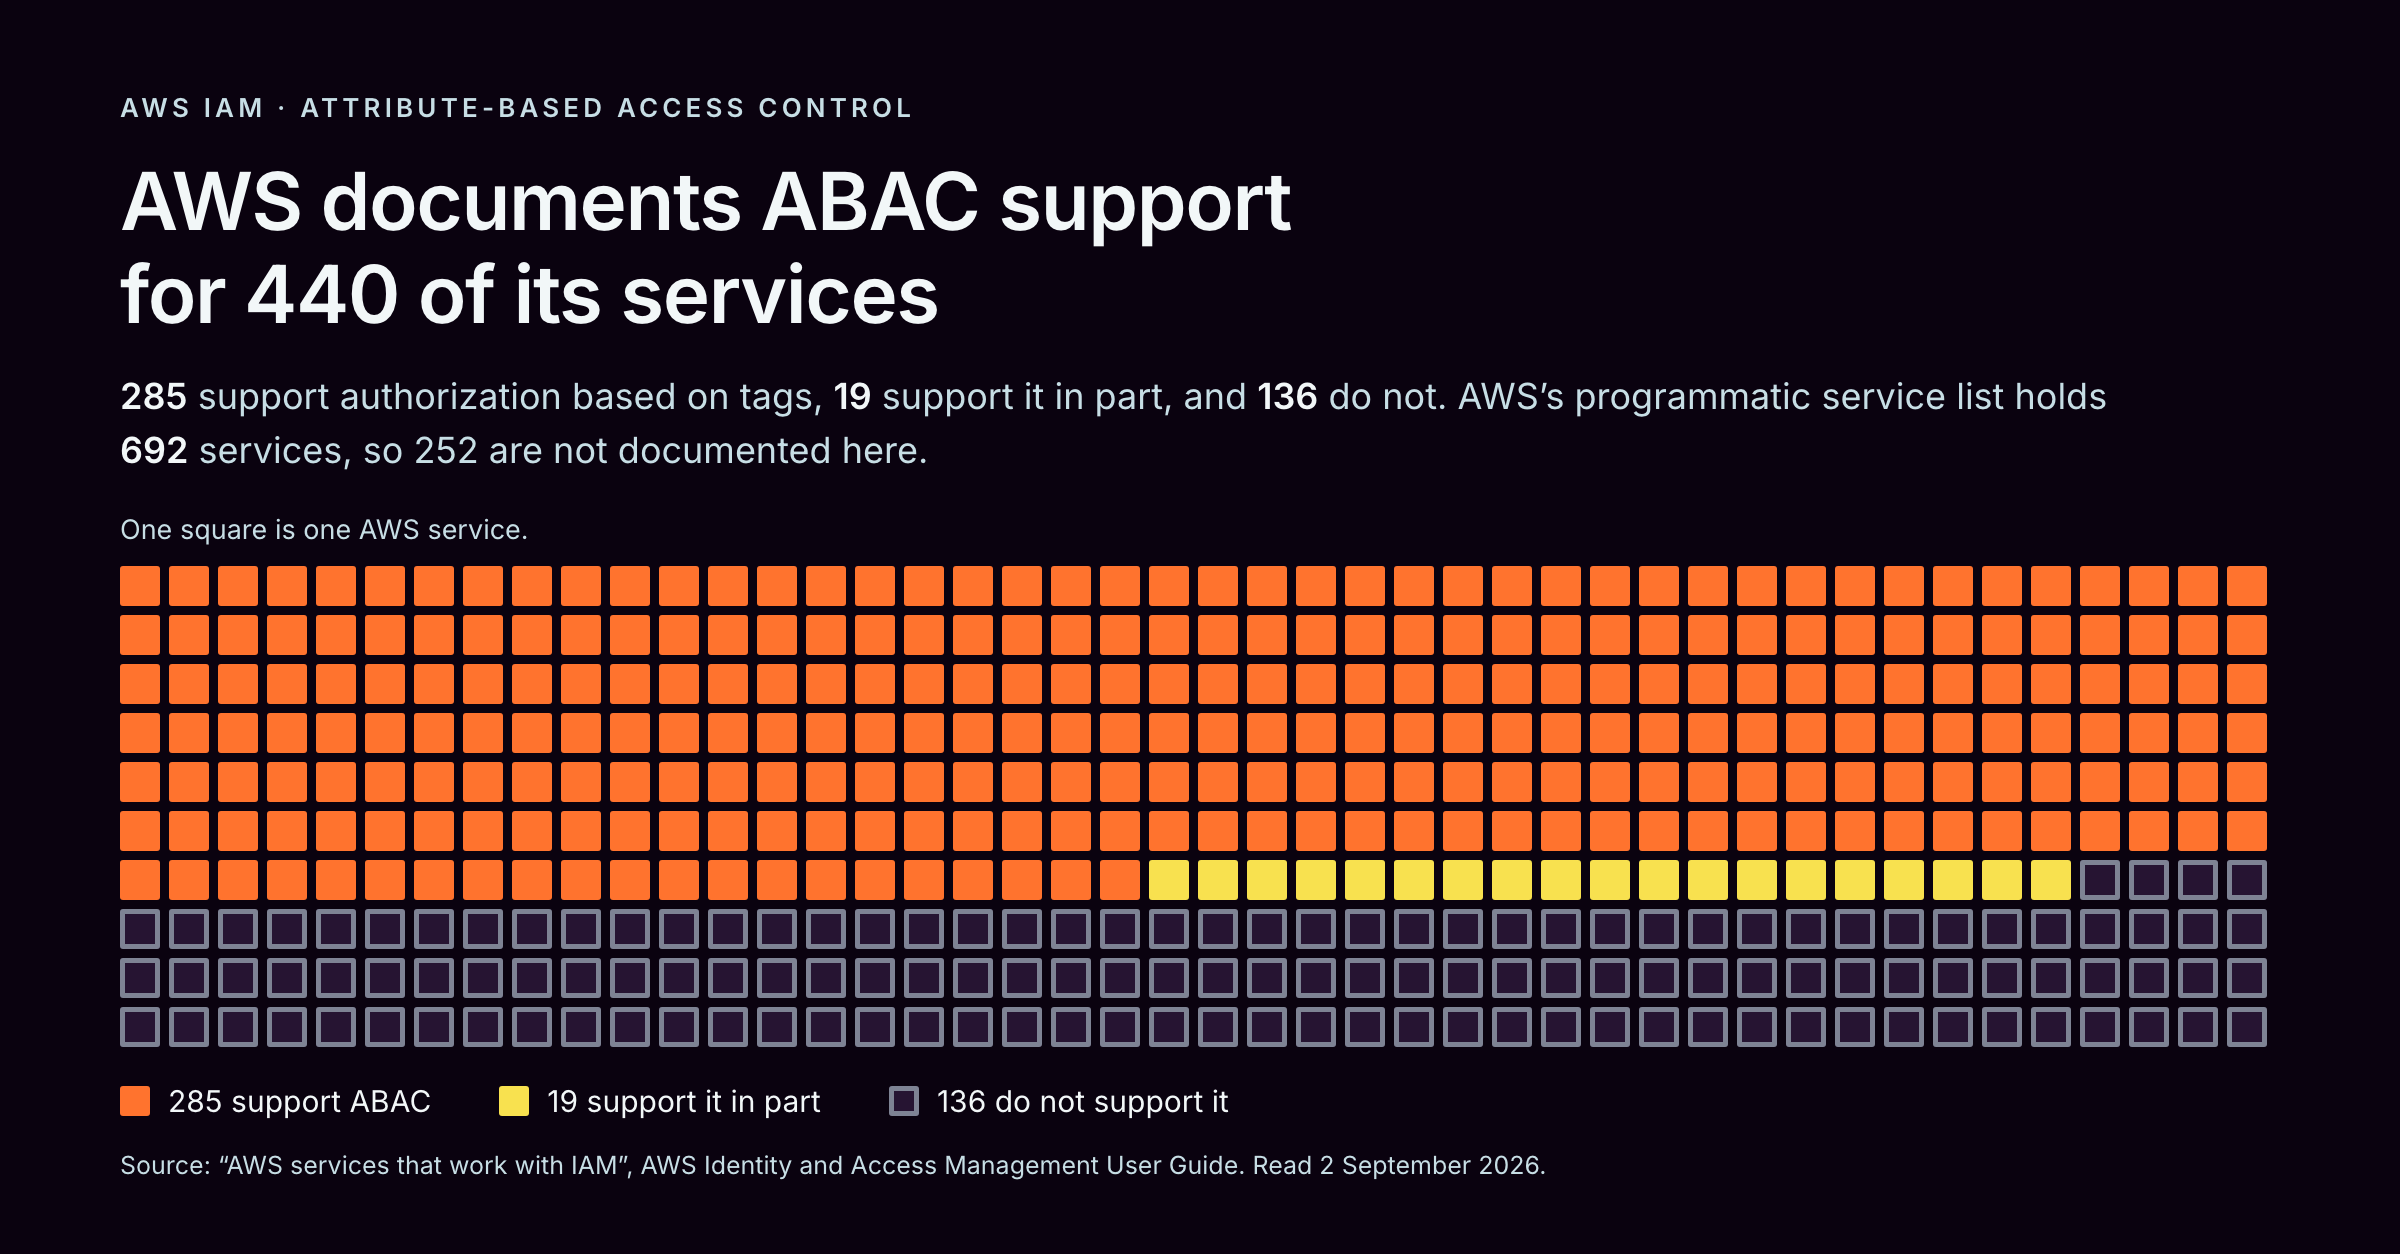
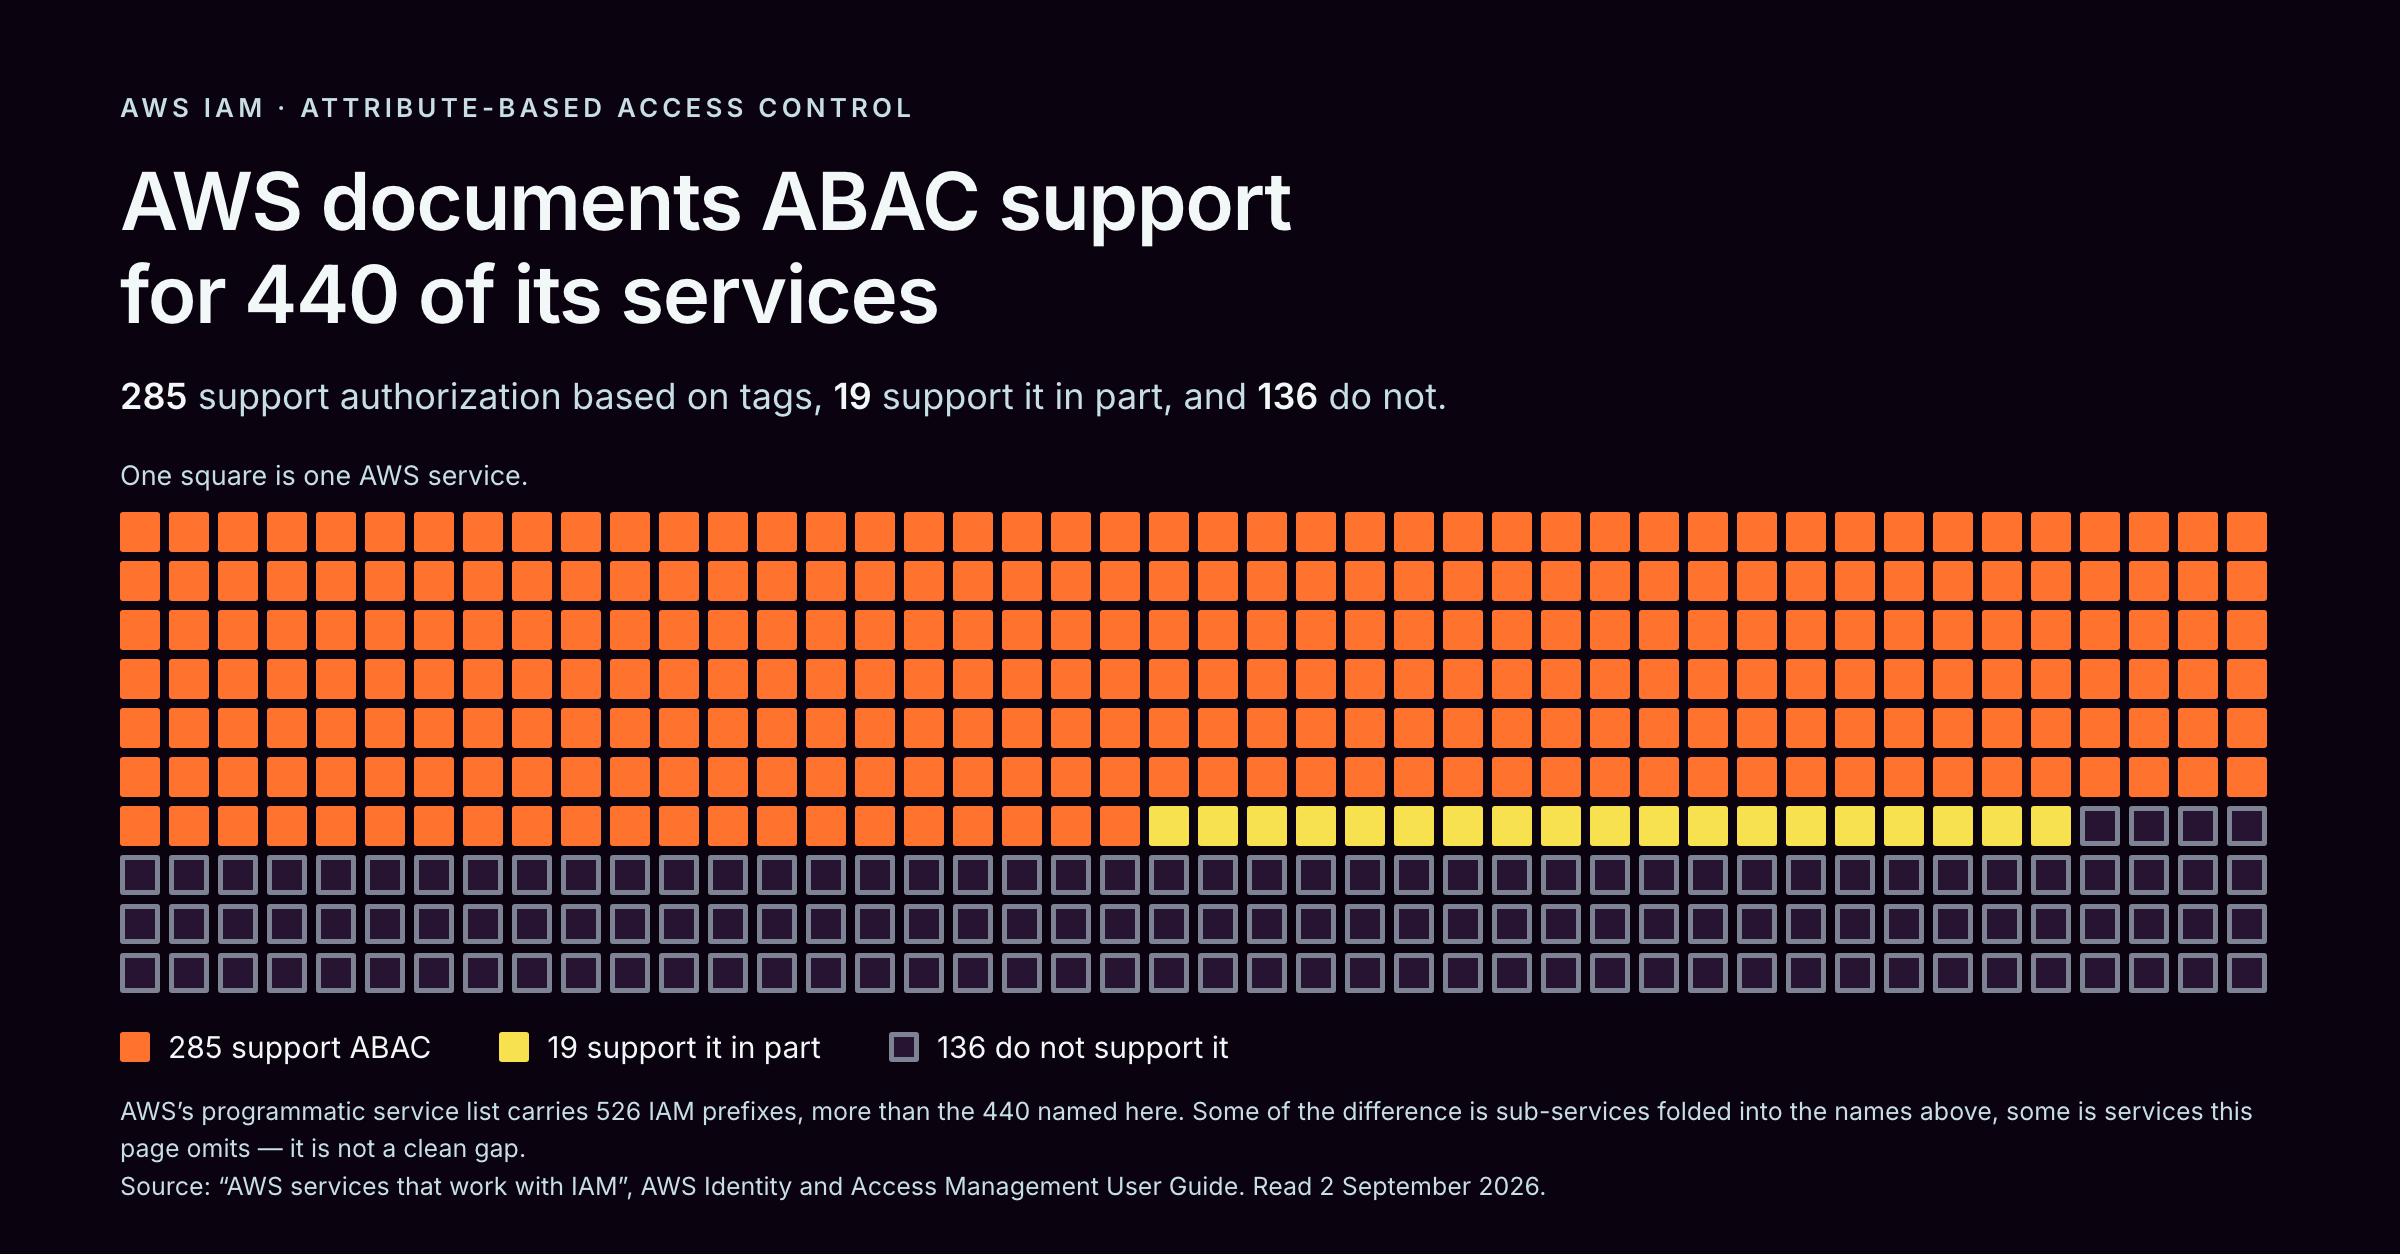
Stop claiming 252 services are undocumented
The 692 figure is a union of five sources: 526 carry a real IAM prefix,
the other 166 are doc-guide, marketing-catalogue and regional-table rows.
Even against 526 the difference is not a clean gap, because some entries
are sub-services folded into a name the page already lists. States 526
and says plainly that the residual cannot be attributed.

Changed region(s): [[0.0312, 0.5598, 0.9688, 0.9641], [0.0312, 0.3421, 0.9688, 0.5287], [0.5938, 0.311, 0.875, 0.3421]]

diff --git a/docs/social/iam-abac-coverage.html b/docs/social/iam-abac-coverage.html
@@ -53,7 +53,7 @@ i.no{background:var(--deep); box-shadow:inset 0 0 0 2.5px rgba(199,222,229,.55)}
 </style></head><body>
   <div class="eyebrow">AWS IAM &middot; attribute-based access control</div>
   <h1>AWS documents ABAC support for 440 of its services</h1>
-  <p class="lede"><b>285</b> support authorization based on tags, <b>19</b> support it in part, and <b>136</b> do not. AWS&rsquo;s programmatic service list holds <b>692</b> services, so 252 are not documented here.</p>
+  <p class="lede"><b>285</b> support authorization based on tags, <b>19</b> support it in part, and <b>136</b> do not.</p>
   <div class="caption">One square is one AWS service.</div>
   <div id="grid"></div>
   <div class="legend">
@@ -61,7 +61,7 @@ i.no{background:var(--deep); box-shadow:inset 0 0 0 2.5px rgba(199,222,229,.55)}
     <div><span class="part"></span>19 support it in part</div>
     <div><span class="no"></span>136 do not support it</div>
   </div>
-  <div class="src">Source: &ldquo;AWS services that work with IAM&rdquo;, AWS Identity and Access Management User Guide. Read 2&nbsp;September&nbsp;2026.</div>
+  <div class="src">AWS&rsquo;s programmatic service list carries 526 IAM prefixes, more than the 440 named here. Some of the difference is sub-services folded into the names above, some is services this page omits &mdash; it is not a clean gap.<br>Source: &ldquo;AWS services that work with IAM&rdquo;, AWS Identity and Access Management User Guide. Read 2&nbsp;September&nbsp;2026.</div>
 <script>
   var YES=285, PART=19, NO=136;
   if (YES+PART+NO !== 440) { document.body.innerHTML='<h1>COUNT ASSERTION FAILED</h1>'; }
